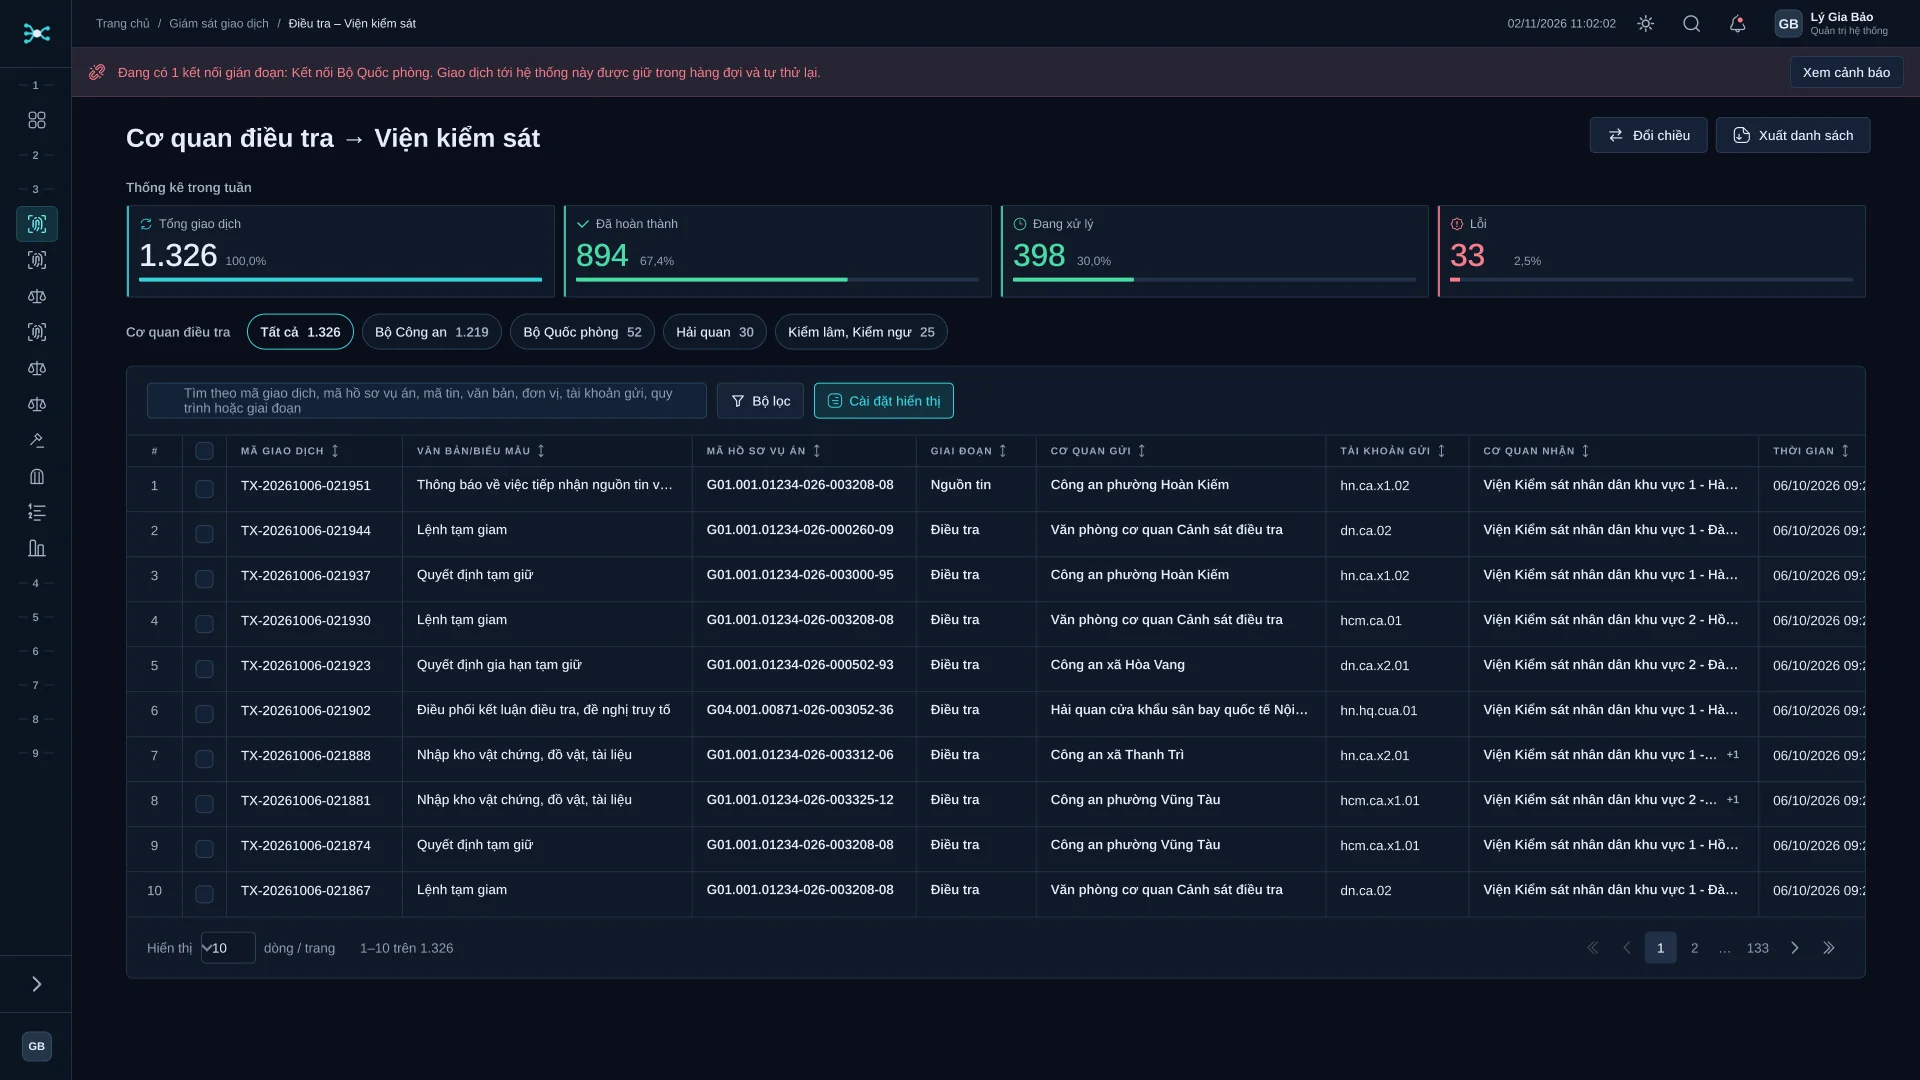
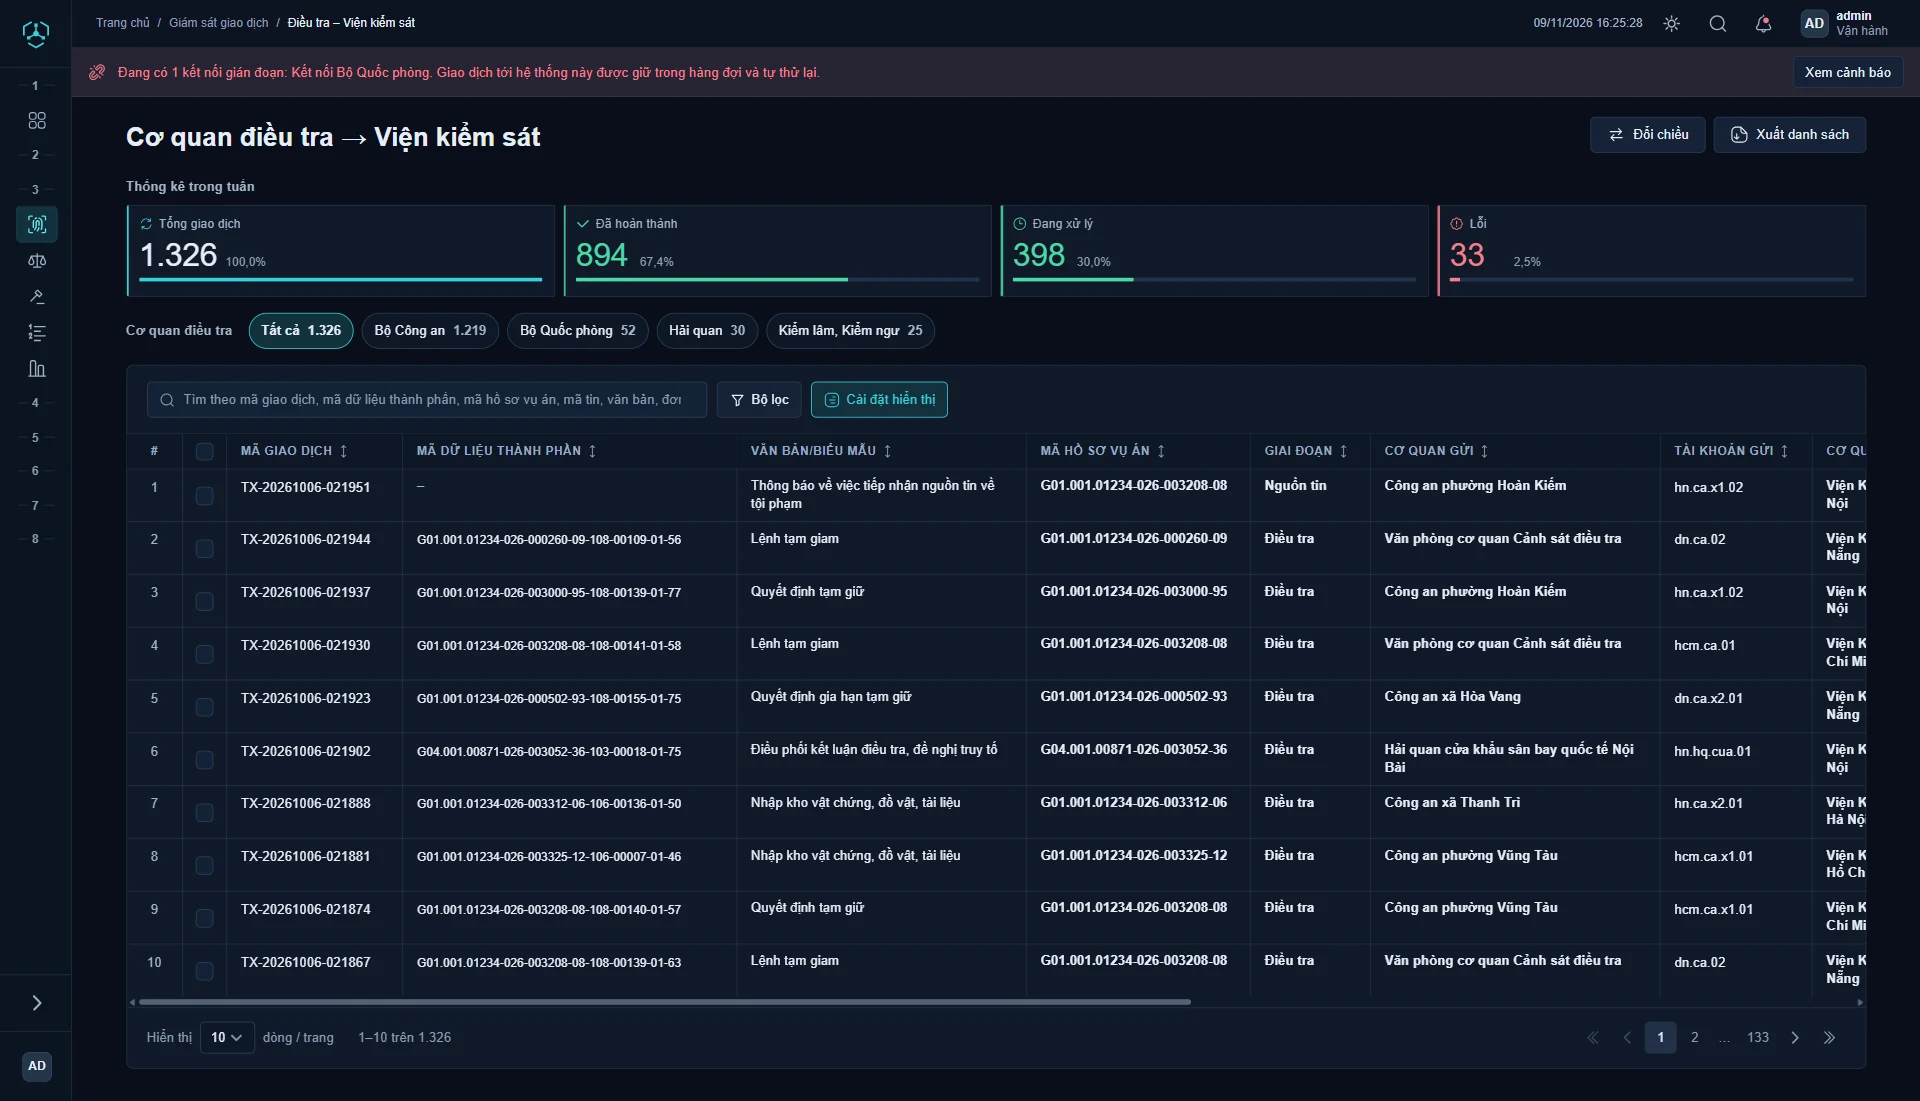
Cập nhật ảnh dự án 422 từ bản demo HTML và thêm 10 ảnh Android cho Vinatex
- 422: thay 12 ảnh bằng ảnh chụp từ Hệ thống điều phối v1.4, thêm màn Đăng nhập và Chọn phần mềm (14 ảnh)
- Vinatex: thêm 10 frame app Android từ page "Mobile - Android" (xuất 3x)
- Cập nhật ảnh chân dung, nội dung và dữ liệu dự án đi kèm

diff --git a/js/data/projects.js b/js/data/projects.js
@@ -247,7 +247,18 @@ window.PF.projects = [
       { src: "assets/img/work-vinatex-app-3.webp", w: 900, h: 1600 },
       { src: "assets/img/work-vinatex-app-4.webp", w: 900, h: 1600 },
       { src: "assets/img/work-vinatex-app-5.webp", w: 900, h: 1600 },
-      { src: "assets/img/work-vinatex-app-6.webp", w: 900, h: 1600 }
+      { src: "assets/img/work-vinatex-app-6.webp", w: 900, h: 1600 },
+      /* Mười frame app Android NGUYÊN BẢN (375 px, xuất 3x) từ page "Mobile - Android" của file Figma Vinatex */
+      { src: "assets/img/work-vinatex-android-splash.webp",      w: 1125, h: 2436 },
+      { src: "assets/img/work-vinatex-android-login.webp",       w: 1125, h: 2436 },
+      { src: "assets/img/work-vinatex-android-home.webp",        w: 1125, h: 2754 },
+      { src: "assets/img/work-vinatex-android-report-list.webp", w: 1125, h: 2436 },
+      { src: "assets/img/work-vinatex-android-report-detail.webp", w: 1125, h: 3696 },
+      { src: "assets/img/work-vinatex-android-report-form.webp", w: 1125, h: 3027 },
+      { src: "assets/img/work-vinatex-android-reward.webp",      w: 1125, h: 2436 },
+      { src: "assets/img/work-vinatex-android-rep-info.webp",    w: 1125, h: 2520 },
+      { src: "assets/img/work-vinatex-android-account.webp",     w: 1125, h: 3849 },
+      { src: "assets/img/work-vinatex-android-profile.webp",     w: 1125, h: 2436 }
     ],
     live: "",
     summary: {
@@ -1193,19 +1204,21 @@ window.PF.projects = [
     title: "422 — Đề án Chuyển đổi số trong hoạt động tố tụng hình sự và thi hành án hình sự (C01 – Bộ Công an)",
     role: { vi: "Supervisor Project Manager / Lead Team Design", en: "Supervisor Project Manager / Lead Team Design" },
     stack: ["Project Management", "UI/UX Design", "Digital transformation"],
-    /* Nguyên một frame màn hình từ file Figma dự án 422 (giao diện tối, rộng 1920) */
+    /* Ảnh chụp màn hình từ bản demo HTML "Hệ thống điều phối v1.4" của dự án 422 (giao diện tối, rộng 1920) */
     gallery: [
-      { src: "assets/img/work-du-an-422-fig-dashboard.webp",          w: 1920, h: 1453 },
-      { src: "assets/img/work-du-an-422-fig-giao-dich.webp",          w: 1920, h: 1080 },
+      { src: "assets/img/work-du-an-422-fig-login.webp",              w: 1920, h: 1080 },
+      { src: "assets/img/work-du-an-422-fig-system-select.webp",      w: 1920, h: 1080 },
+      { src: "assets/img/work-du-an-422-fig-dashboard.webp",          w: 1920, h: 1450 },
+      { src: "assets/img/work-du-an-422-fig-giao-dich.webp",          w: 1920, h: 1101 },
       { src: "assets/img/work-du-an-422-fig-ho-so-list.webp",         w: 1920, h: 1080 },
-      { src: "assets/img/work-du-an-422-fig-ho-so-detail.webp",       w: 1920, h: 1668 },
+      { src: "assets/img/work-du-an-422-fig-ho-so-detail.webp",       w: 1920, h: 1700 },
       { src: "assets/img/work-du-an-422-fig-advanced-search.webp",    w: 1920, h: 1080 },
       { src: "assets/img/work-du-an-422-fig-compare-dialog.webp",     w: 1920, h: 1080 },
-      { src: "assets/img/work-du-an-422-fig-alert-detail.webp",       w: 1920, h: 1558 },
-      { src: "assets/img/work-du-an-422-fig-alert-list.webp",         w: 1920, h: 1080 },
-      { src: "assets/img/work-du-an-422-fig-catalog.webp",            w: 1920, h: 1089 },
-      { src: "assets/img/work-du-an-422-fig-transaction-detail.webp", w: 1920, h: 1080 },
-      { src: "assets/img/work-du-an-422-fig-reconcile.webp",          w: 1920, h: 1255 },
+      { src: "assets/img/work-du-an-422-fig-alert-detail.webp",       w: 1920, h: 1554 },
+      { src: "assets/img/work-du-an-422-fig-alert-list.webp",         w: 1920, h: 1107 },
+      { src: "assets/img/work-du-an-422-fig-catalog.webp",            w: 1920, h: 1098 },
+      { src: "assets/img/work-du-an-422-fig-transaction-detail.webp", w: 1920, h: 1101 },
+      { src: "assets/img/work-du-an-422-fig-reconcile.webp",          w: 1920, h: 1259 },
       { src: "assets/img/work-du-an-422-fig-user-detail.webp",        w: 1920, h: 1080 }
     ],
     live: "",

diff --git a/js/data/i18n.js b/js/data/i18n.js
@@ -51,7 +51,7 @@ window.PF.i18n = {
     "about.s4.p": "Làm việc ở điểm giao giữa các nhóm: chuyển hóa nhu cầu khách hàng thành yêu cầu sản phẩm và giải pháp kỹ thuật, rồi phối hợp Design, BA, Front-end, Mobile và Tester xuyên suốt vòng đời phát triển sản phẩm. Nền tảng ở từng mảng giúp tôi trao đổi với mỗi nhóm bằng đúng ngôn ngữ chuyên môn của họ.",
     "about.s5.k": "Claude Code và AI Agent",
     "about.s5.p": "Ứng dụng Claude Code vào quy trình phát triển sản phẩm, đồng thời nghiên cứu và xây dựng AI Agent riêng dựa trên Claude Models để hỗ trợ tự động hóa các tác vụ chuyên môn và quy trình làm việc.",
-    "about.cap": "Ảnh chân dung — thay file tại assets/img/portrait.svg",
+    "about.cap": "Nguyễn Hoàng Minh — Project Manager",
     "about.k1": "Vai trò",
     "about.v1": "Project Manager, Product & Technical Development",
     "about.k2": "Công cụ",
@@ -199,7 +199,7 @@ window.PF.i18n = {
     "about.s4.p": "Working at the point where the teams meet: turning client needs into product requirements and technical solutions, then coordinating Design, BA, Front-end, Mobile, and Testers across the whole product development lifecycle. A background in each field lets me talk to every team in its own professional language.",
     "about.s5.k": "Claude Code and AI Agents",
     "about.s5.p": "Applying Claude Code in the product development process, while researching and building my own AI Agent on top of Claude Models to help automate professional tasks and workflows.",
-    "about.cap": "Portrait — swap the file at assets/img/portrait.svg",
+    "about.cap": "Nguyễn Hoàng Minh — Project Manager",
     "about.k1": "Role",
     "about.v1": "Project Manager, Product & Technical Development",
     "about.k2": "Tools",

diff --git a/index.html b/index.html
@@ -212,8 +212,8 @@
 
         <div class="about__aside">
           <figure class="portrait" data-reveal>
-            <img src="assets/img/portrait.svg" alt="" width="800" height="1000" loading="lazy">
-            <figcaption class="portrait__cap" data-i18n="about.cap">Ảnh chân dung — thay file tại assets/img/portrait.svg</figcaption>
+            <img src="assets/img/portrait.webp" alt="Chân dung Nguyễn Hoàng Minh" width="800" height="1000" loading="lazy">
+            <figcaption class="portrait__cap" data-i18n="about.cap">Nguyễn Hoàng Minh — Project Manager</figcaption>
           </figure>
 
           <div class="notes" data-reveal>
@@ -445,12 +445,6 @@
       <div class="contact__info" data-reveal>
         <p class="eyebrow" data-i18n="contact.mailLabel">Thư điện tử</p>
         <a class="contact__mail" href="mailto:hoangminh2222000@gmail.com" data-cursor="copy">hoangminh2222000@gmail.com</a>
-
-        <div class="contact__socials">
-          <a class="tag" href="https://github.com/" target="_blank" rel="noopener noreferrer">GitHub</a>
-          <a class="tag" href="https://www.linkedin.com/" target="_blank" rel="noopener noreferrer">LinkedIn</a>
-          <a class="tag" href="https://zalo.me/" target="_blank" rel="noopener noreferrer">Zalo</a>
-        </div>
       </div>
     </div>
   </section>
@@ -459,7 +453,7 @@
 
 <footer class="footer">
   <div class="shell footer__grid">
-    <span>© 2026 Nguyễn Hoàng Minh —<span data-i18n="footer.rights">Tự viết tay, không dùng khung dựng sẵn</span></span>
+    <span>© 2026 Nguyễn Hoàng Minh</span>
     <span><span data-i18n="footer.clock">Giờ Hà Nội</span> <span data-clock>--:--</span></span>
     <a class="footer__top" href="#hero" data-scroll-to="#hero">
       <span data-i18n="footer.top">Lên đầu trang</span>

diff --git a/README.md b/README.md
@@ -35,11 +35,12 @@ Không phải sửa HTML để đổi chữ. Mỗi phần tử trên trang mang 
 1. **Tên và giới thiệu** — `js/data/i18n.js`, các khoá `hero.*` và `about.*`
 2. **Địa chỉ thư** — xuất hiện ở hai chỗ trong `index.html`: liên kết `mailto:`
    và khối JSON-LD trong `<head>`
-3. **Liên kết mạng xã hội** — `index.html`, khối `.contact__socials`, hiện đang
-   trỏ tới trang chủ GitHub / LinkedIn / Zalo
-4. **Ảnh** — `assets/img/*.svg` đang là ảnh tạm tự sinh. Thay bằng ảnh chụp
-   thật (`.jpg` hoặc `.webp`), rồi sửa đường dẫn `poster` trong
-   `js/data/projects.js` và `src` của `.portrait img` trong `index.html`
+3. **Liên kết mạng xã hội** — đã bỏ khỏi mục Liên hệ (chỉ còn email). Muốn thêm
+   lại thì dựng khối `.contact__socials` (CSS còn trong `css/sections.css`)
+4. **Ảnh** — ảnh chân dung đã là ảnh thật (`assets/img/portrait.webp`, tỉ lệ 4:5,
+   800×1000). Các ảnh `assets/img/*.svg` còn lại là ảnh tạm tự sinh: thay bằng ảnh
+   chụp thật (`.jpg` hoặc `.webp`), rồi sửa đường dẫn `poster` trong
+   `js/data/projects.js`
 5. **Năm ở chân trang** — `index.html` và `project.html`, dòng `© 2026`
 
 ### Thêm một dự án mới
